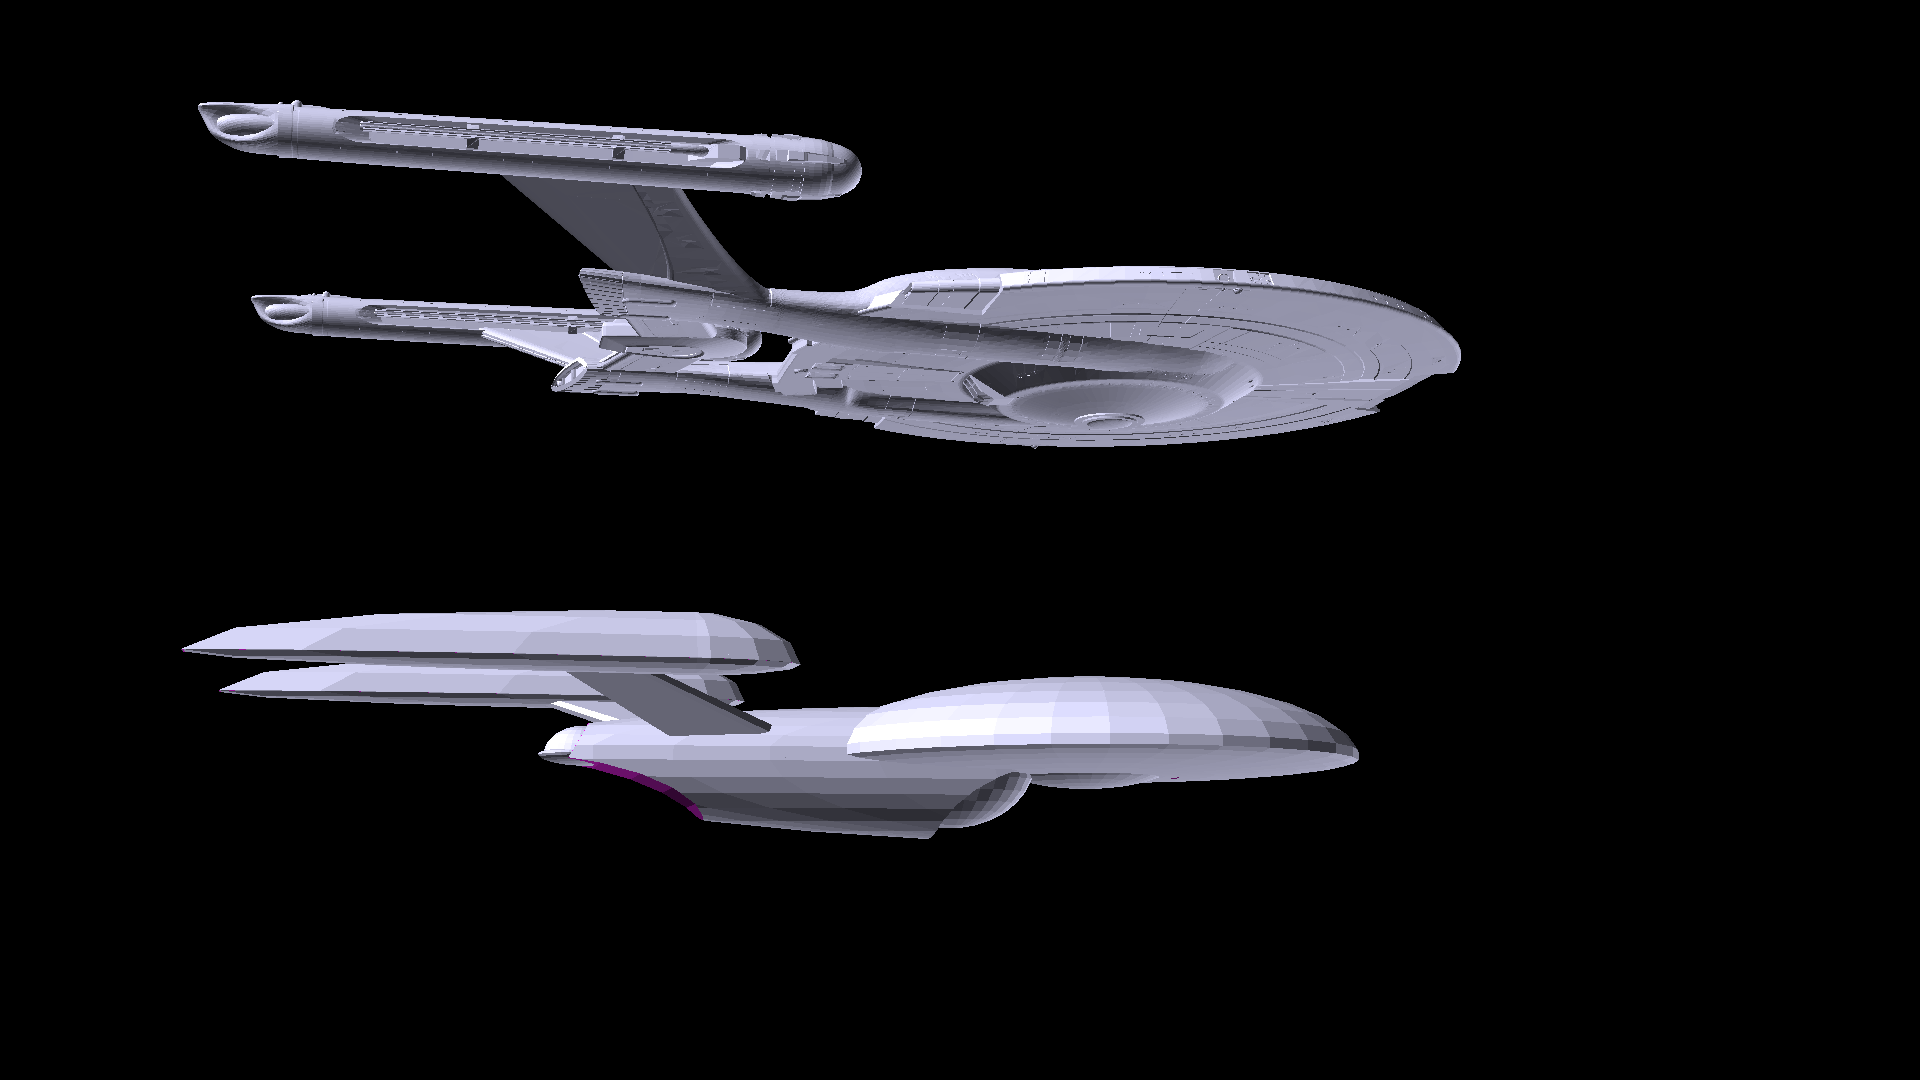
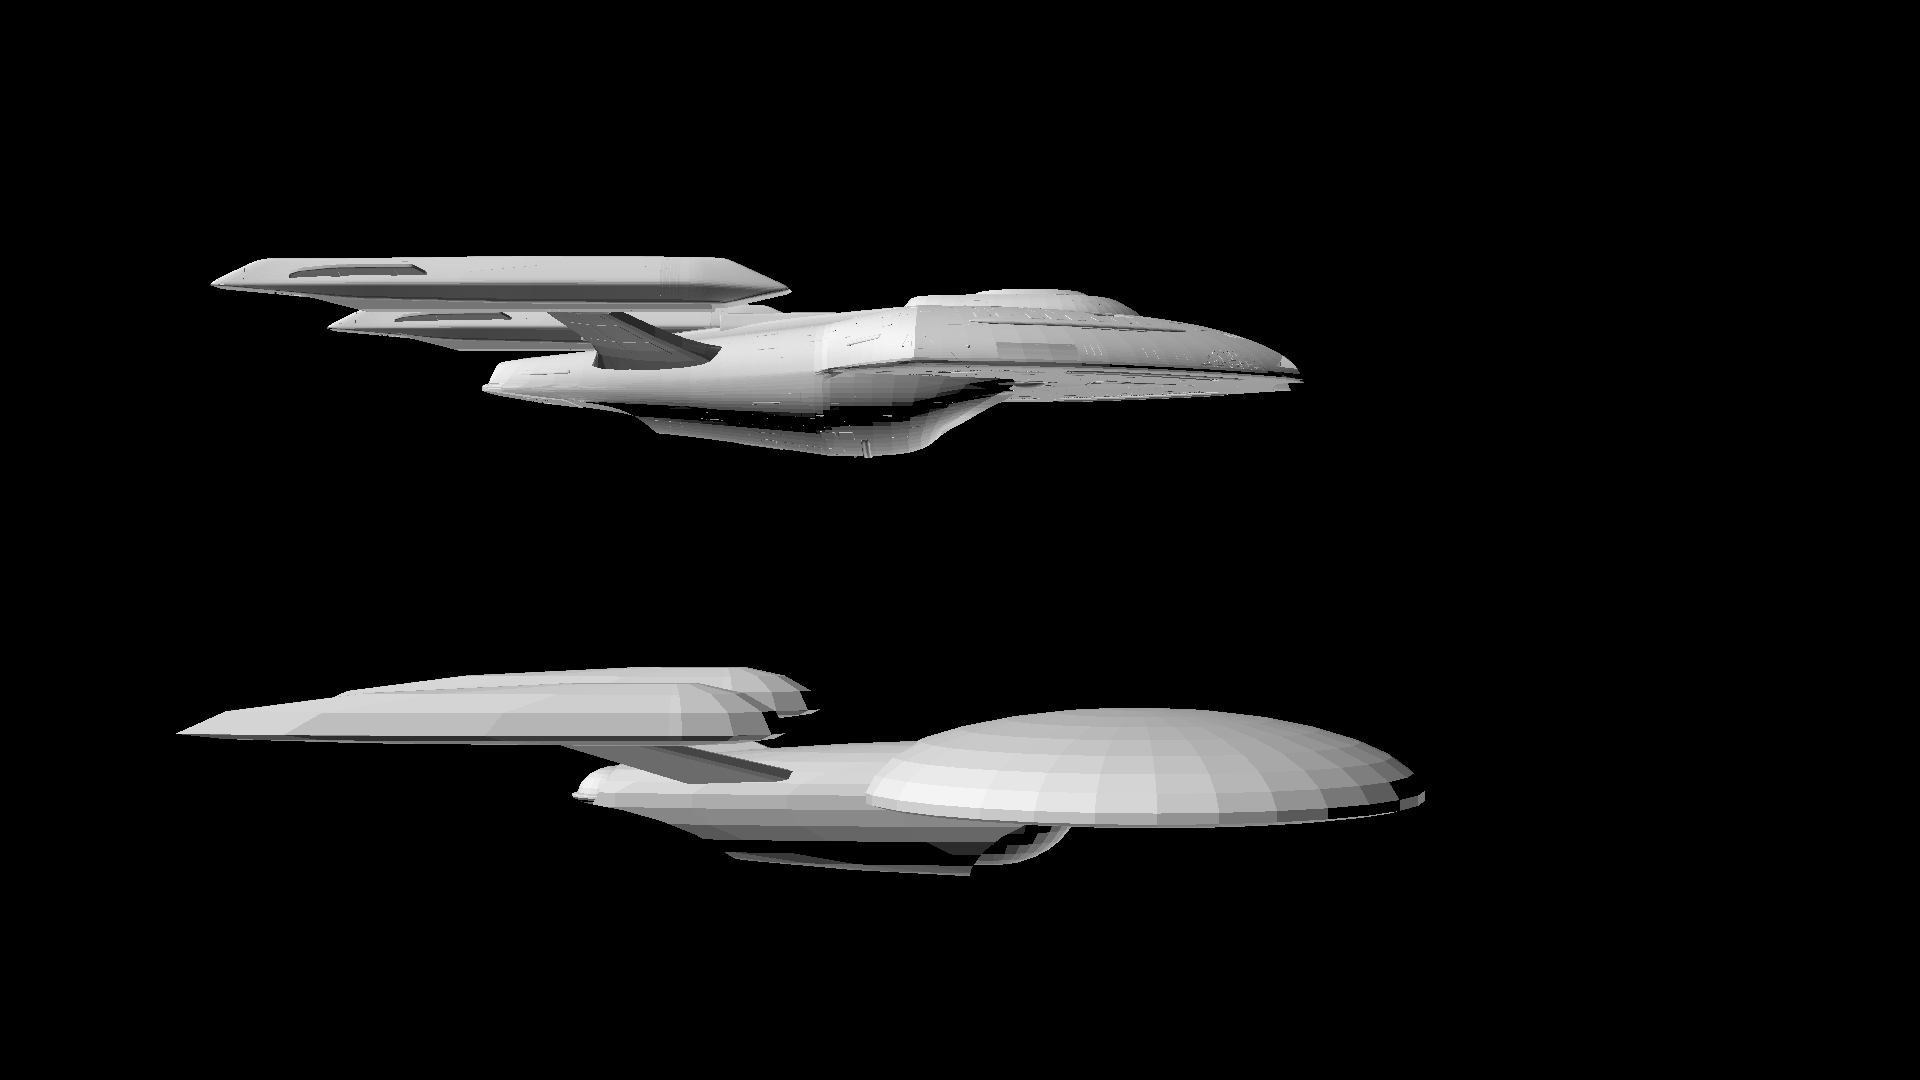
added compare with better ships

Changed region(s): [[0.0938, 0.0917, 0.7812, 0.4278], [0.0938, 0.55, 0.75, 0.825]]

diff --git a/README.md b/README.md
@@ -924,11 +924,11 @@ At almost a mile long the *Exodus* class is in a class of its own, even compared
 
 ![Command comparison](images/scale/scale-command.png)
 
-##### Comparison with NX class
+##### Comparison with Nova class
 
 ![Constitution comparison](images/scale/scale-scout.png)
 
-##### Comparison with Constitution Class
+##### Comparison with Defiant Class
 
 ![EScort comparison](images/scale/scale-escort.png)
 
